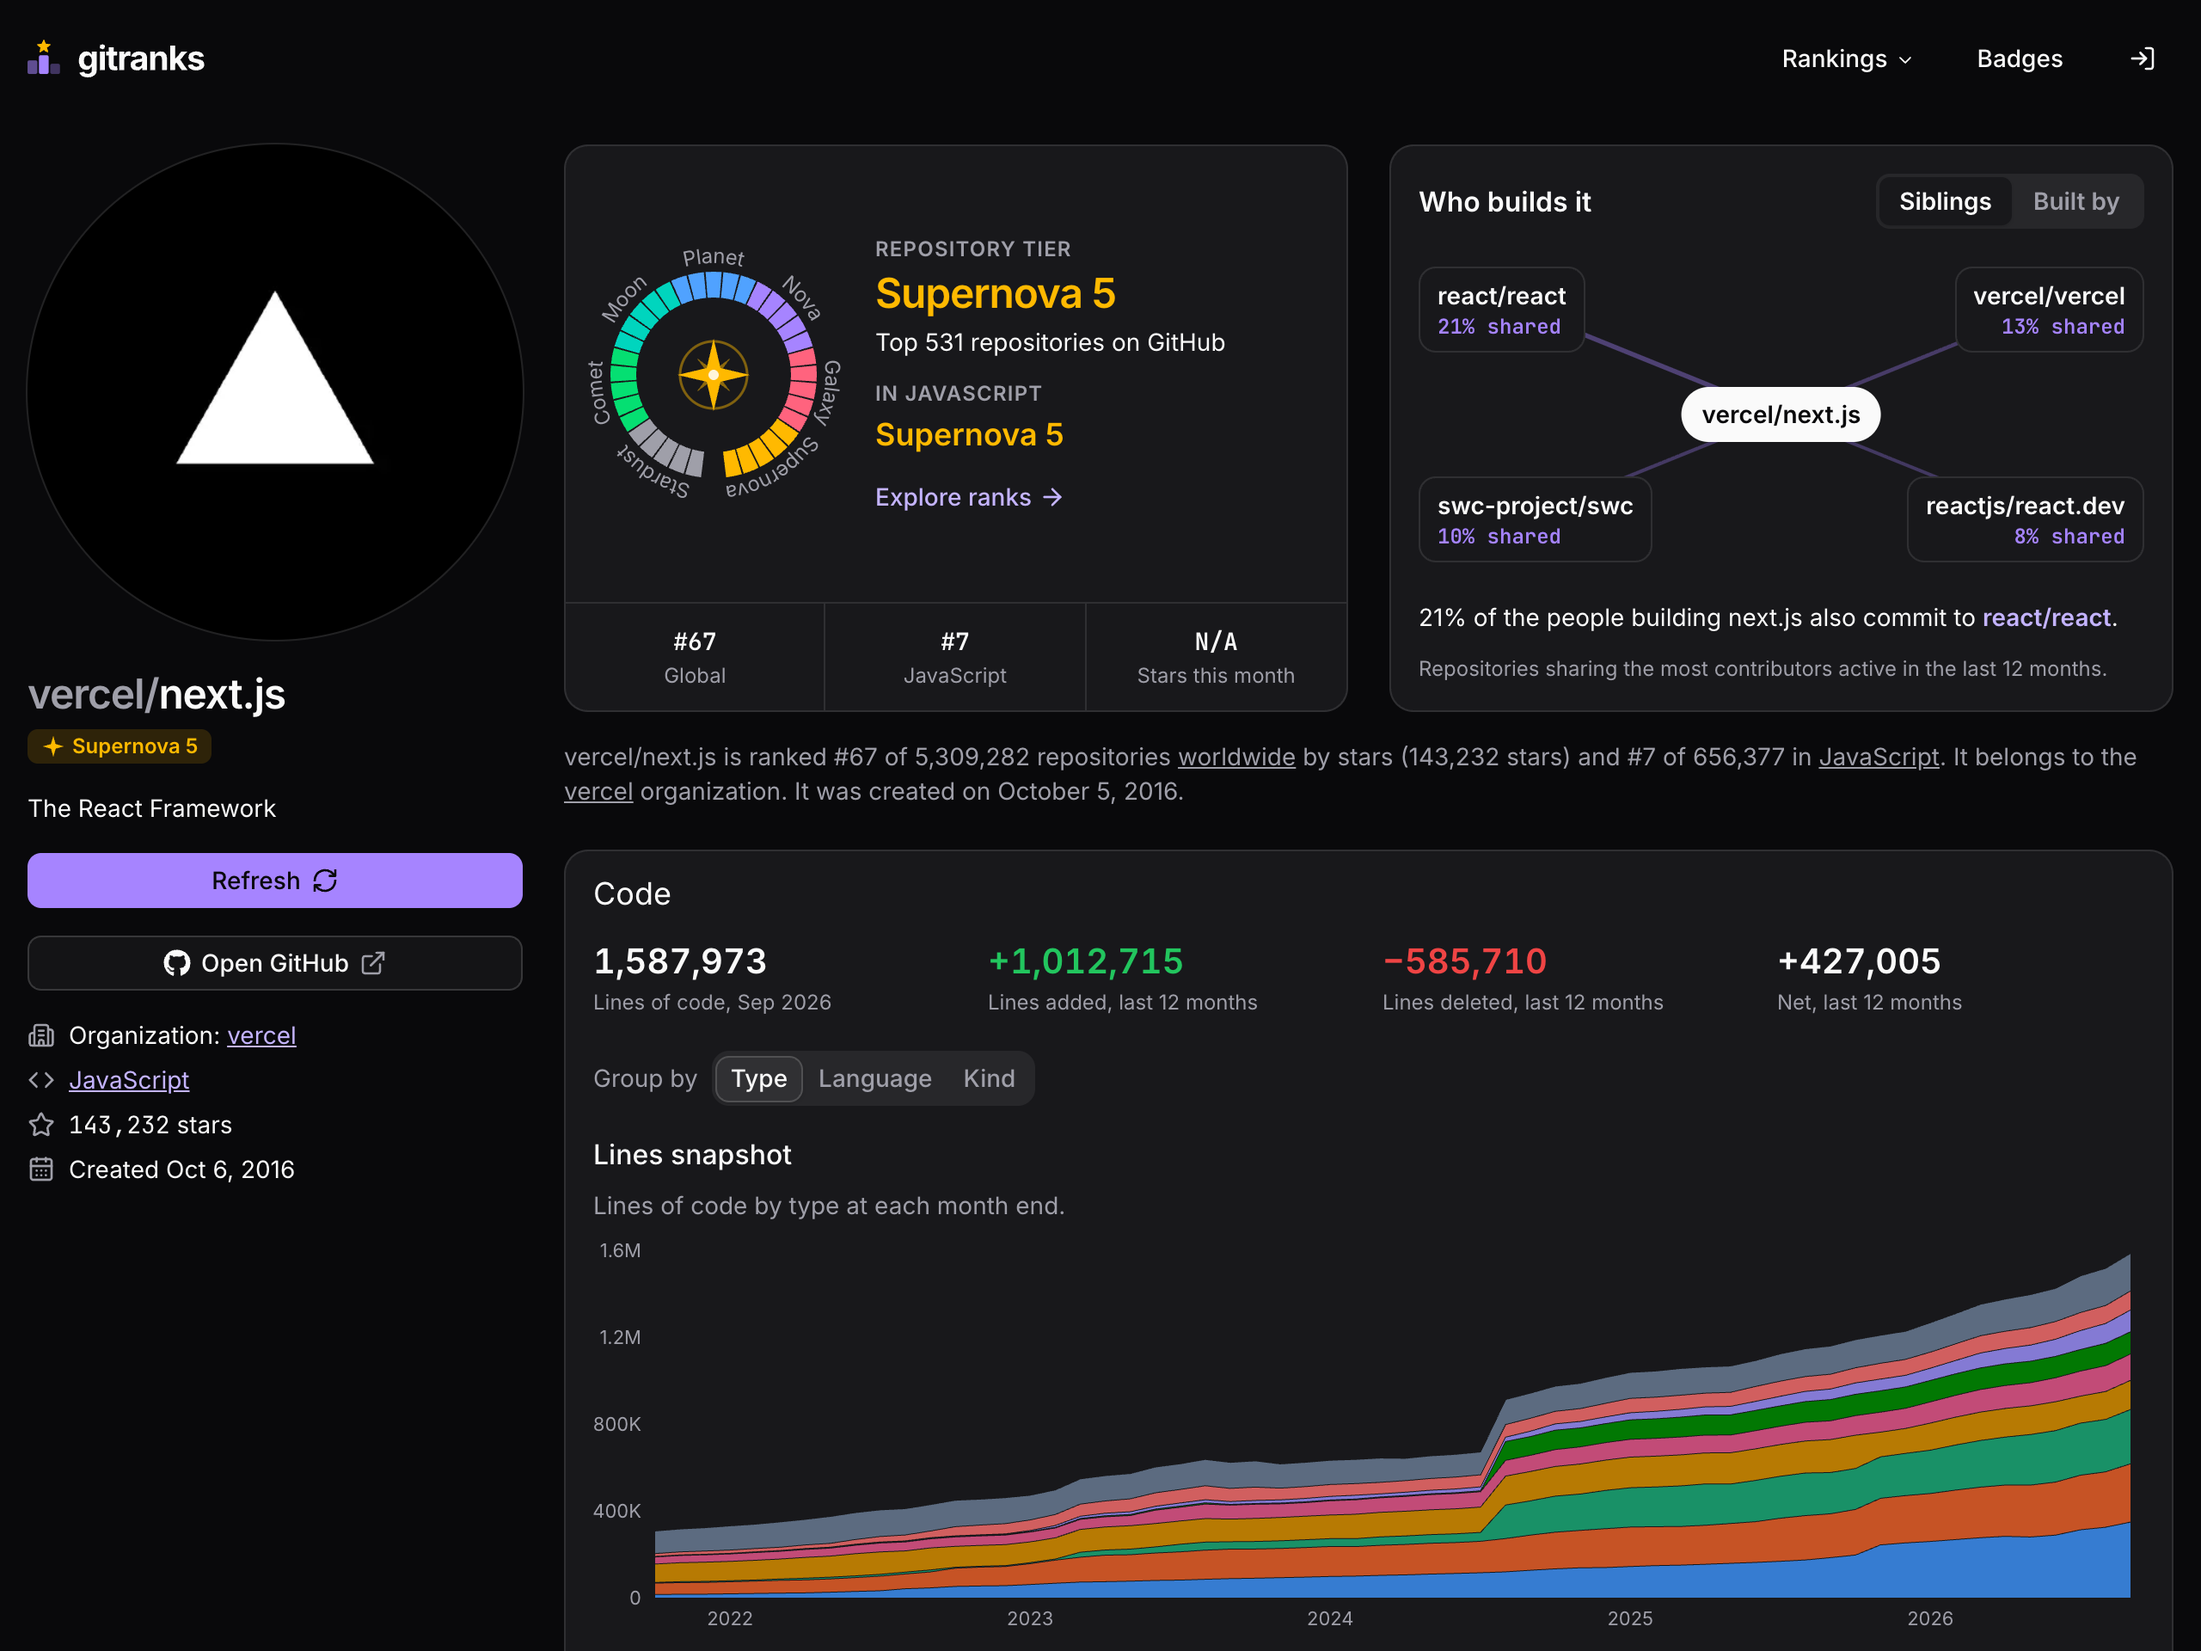
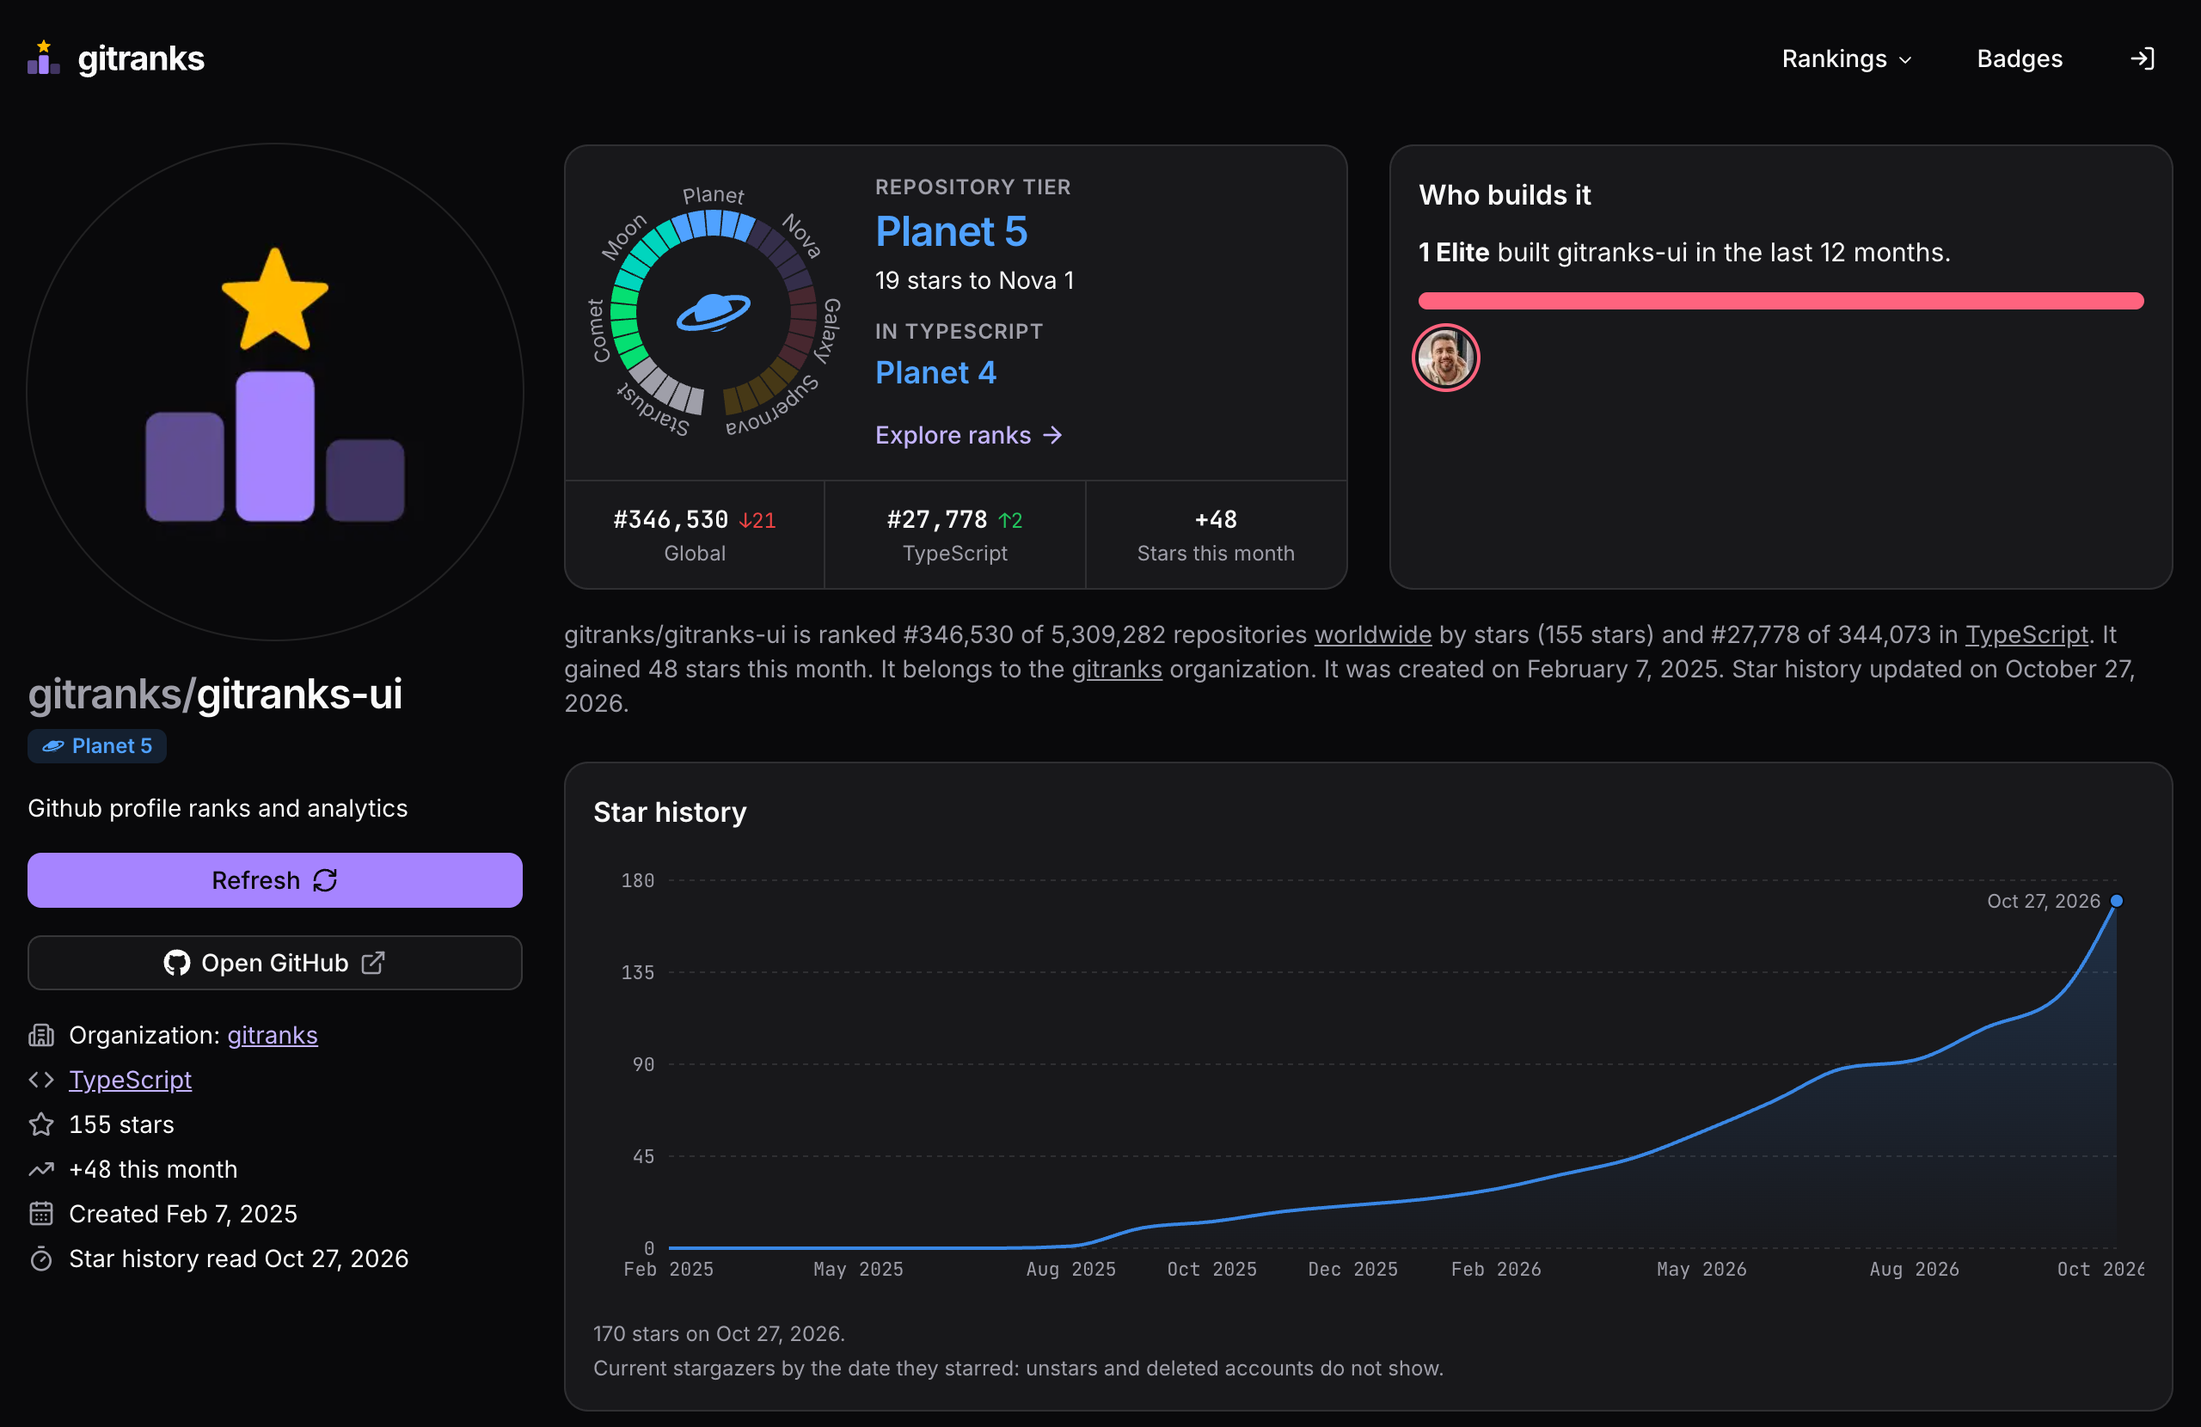
docs(readme): review fixes: repository shot of this repo, PNG theme note, contact for data

diff --git a/README.md b/README.md
@@ -65,7 +65,7 @@ Every badge is a live image. Pick one in the **[badge builder](https://gitranks.
 
 This repository's own star history, drawn by GitRanks:
 
-<a href="https://gitranks.com/repo/gitranks/gitranks-ui"><picture><source media="(prefers-color-scheme: dark)" srcset="https://gitranks.com/badge/repo/gitranks/gitranks-ui/star-history.svg?theme=dark"><img src="https://gitranks.com/badge/repo/gitranks/gitranks-ui/star-history.svg?theme=light" alt="gitranks/gitranks-ui on GitRanks: star history" width="640"></picture></a>
+<a href="https://gitranks.com/repo/gitranks/gitranks-ui"><img src="https://gitranks.com/badge/repo/gitranks/gitranks-ui/star-history.svg" alt="gitranks/gitranks-ui on GitRanks: star history" width="640"></a>
 
 #### Organizations
 
@@ -84,7 +84,7 @@ The builder writes the snippet for you. In Markdown, a badge is a linked image:
 [![My GitRanks rank](https://gitranks.com/badge/user/YOUR_LOGIN/rank.svg)](https://gitranks.com/profile/YOUR_LOGIN)
 ```
 
-Badge URLs look like `https://gitranks.com/badge/{user|repo|org}/{name}/{badge}.svg`, and `.png` works too. With the default colors, a badge follows the reader's system light or dark theme; the builder's HTML snippet follows GitHub's theme setting instead. Badge URLs from earlier versions keep working.
+Badge URLs look like `https://gitranks.com/badge/{user|repo|org}/{name}/{badge}.svg`. With the default colors, an SVG badge follows the reader's system light or dark theme; the builder's HTML snippet follows GitHub's theme setting instead. A `.png` badge is drawn light, or dark with `?theme=dark`. Badge URLs from earlier versions keep working.
 
 ## A closer look
 
@@ -100,13 +100,13 @@ Badge URLs look like `https://gitranks.com/badge/{user|repo|org}/{name}/{badge}.
       <p align="center"><b>Developer profile</b>: tier, ranks and their monthly moves, top languages, own projects and contributions.</p>
     </td>
     <td width="50%" valign="top">
-      <a href="https://gitranks.com/repo/vercel/next.js">
+      <a href="https://gitranks.com/repo/gitranks/gitranks-ui">
         <picture>
           <source media="(prefers-color-scheme: dark)" srcset=".github/readme/repo-dark.png">
-          <img src=".github/readme/repo-light.png" alt="A repository page on GitRanks: repository tier, Who builds it, and lines of code over time">
+          <img src=".github/readme/repo-light.png" alt="This repository on GitRanks: repository tier, global and language rank, Who builds it, and star history">
         </picture>
       </a>
-      <p align="center"><b>Repository page</b>: tier, global and language rank, <i>Who builds it</i>, and the code over time.</p>
+      <p align="center"><b>Repository page</b>: tier, global and language rank, <i>Who builds it</i>, star history, and below it the code and contributors over time.</p>
     </td>
   </tr>
 </table>
@@ -143,7 +143,7 @@ Sign in, open your profile, go to the <b>Privacy</b> tab and choose <b>Remove my
 
 Found a bug, a wrong rank, or a metric you'd like to see? [Open an issue](https://github.com/gitranks/gitranks-ui/issues) or [start a discussion](https://github.com/gitranks/gitranks-ui/discussions). Every report helps.
 
-If you're building something with GitHub data and want what GitRanks has collected, get in touch. It's free to share.
+Building something with GitHub data? GitRanks shares the data it has collected for free. Write to [hello@gitranks.com](mailto:hello@gitranks.com).
 
 ## About this repository
 
@@ -153,6 +153,6 @@ Built with [Next.js](https://nextjs.org) 16, React 19, [Tailwind CSS](https://ta
 
 ## Support
 
-If GitRanks is useful to you, ⭐ star the repository, put a badge in your README, or share your rank with a friend.
+If GitRanks is useful to you, star the repository, put a badge in your README, or share your rank with a friend.
 
 <sub>Built by [@maslianok](https://github.com/maslianok). Yes, I've checked my own rank.</sub>
